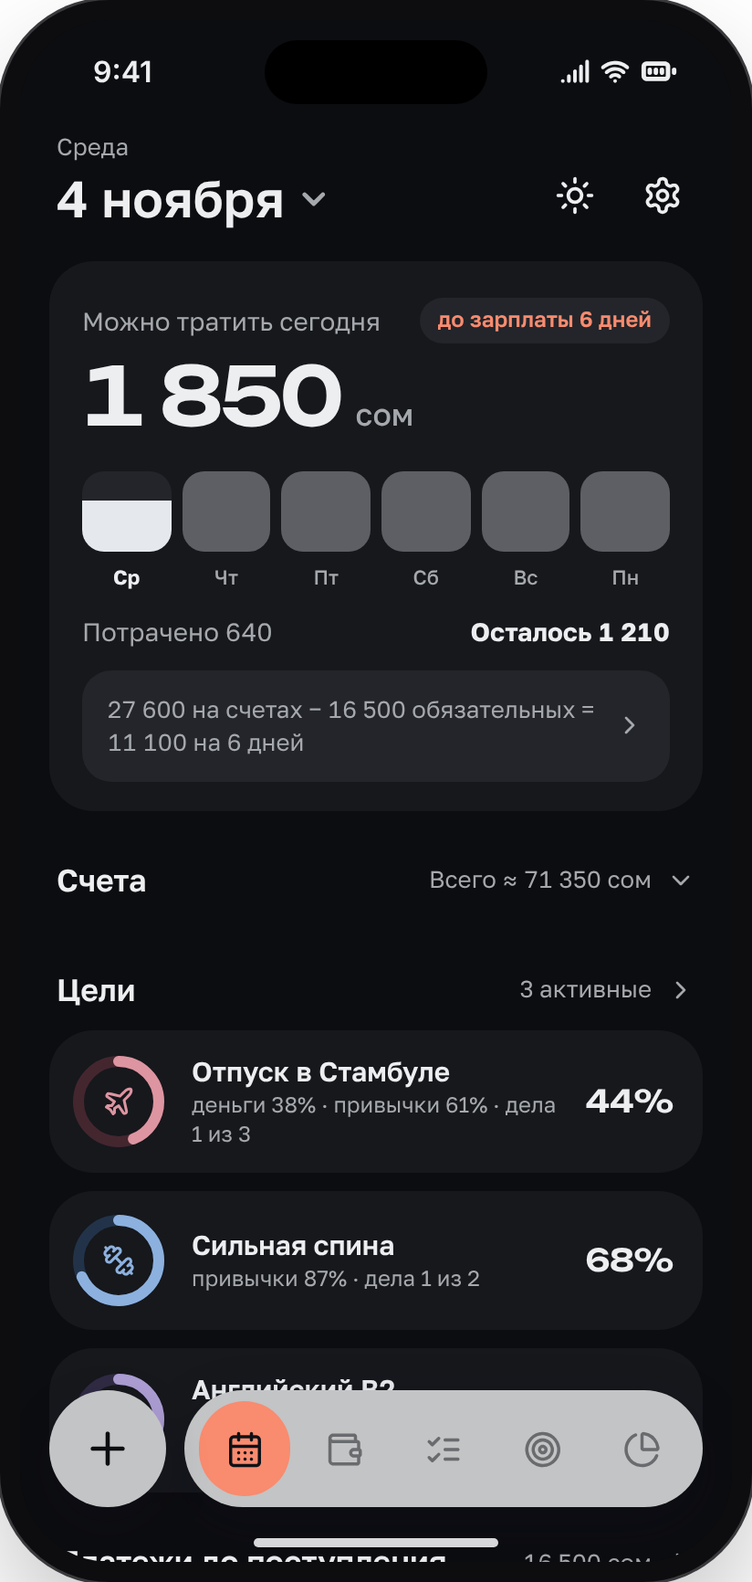
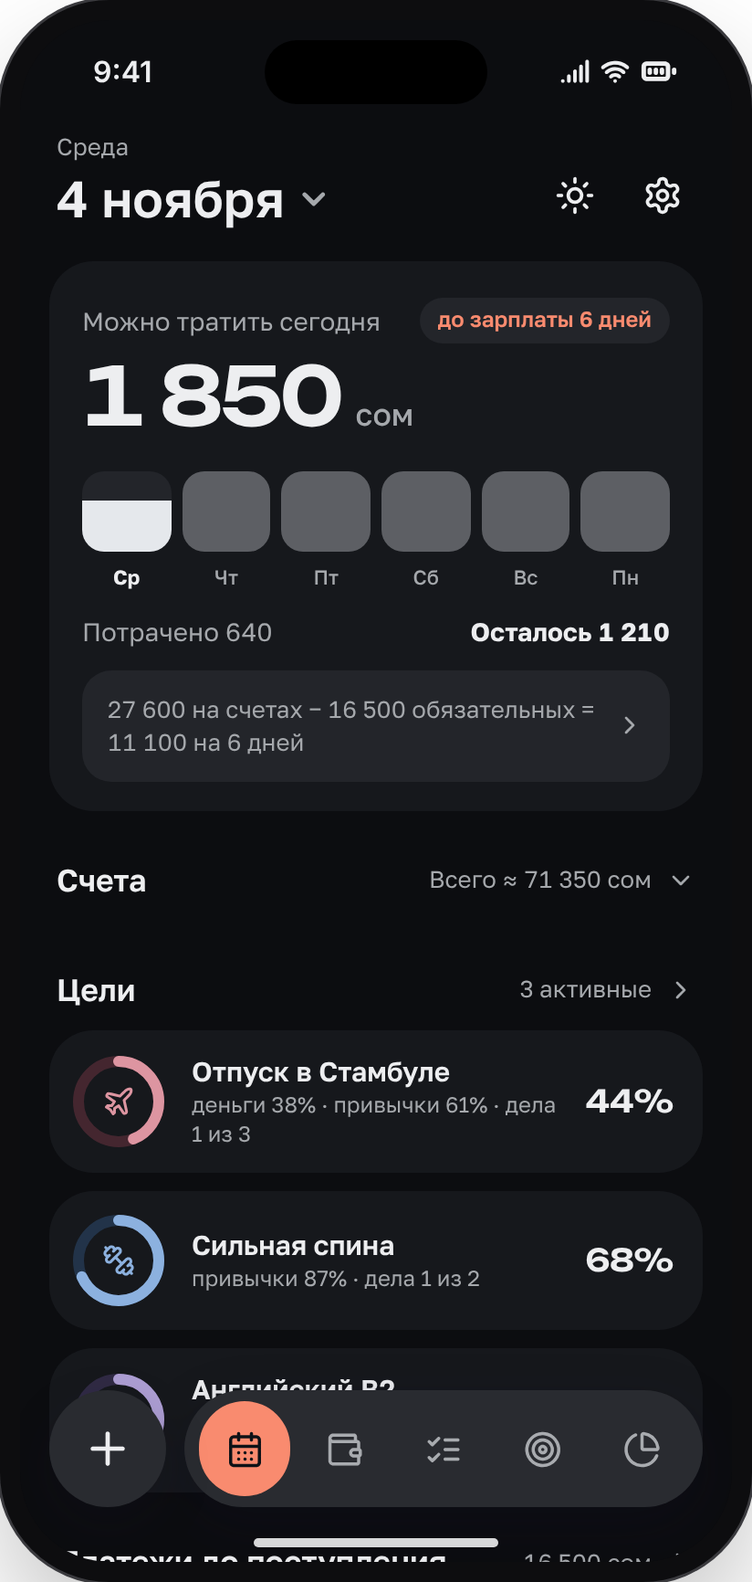
SPEC 9a: в тёмном режиме меню и кнопка «+» тёмные; токены и эталоны обновлены
Claude-Session: https://claude.ai/code/session_01MMFcYPgiDoKkXHqffXhYq6

Changed region(s): [[0.0607, 0.873, 0.9405, 0.9665]]

diff --git a/docs/design/appearance/MyFinanceApp2-appearance.dc.html b/docs/design/appearance/MyFinanceApp2-appearance.dc.html
@@ -1362,12 +1362,12 @@ class Component extends DCLogic {
     const centerV = this.props.center || 'notch-pill';
     const navC = [['today', 'Сегодня', 'calendar-days'], ['money', 'Деньги', 'wallet'], [null, '', 'plus'], ['tasks', 'Дела', 'list-checks'], ['reports', 'Отчёты', 'chart-pie']].map(([id, label, icon]) => {
       const on = id && (s.tab === id || (id === 'tasks' && s.tab === 'goals'));
-      return { label, icon: 'icon-' + icon, vis: id ? 'visible' : 'hidden', led: on ? 'oklch(0.7 0.2 40)' : (dark ? '#26282c' : '#c9ccd0'), ledGlow: on ? '0 0 6px oklch(0.72 0.2 40)' : 'inset 0 1px 1px rgba(0,0,0,.3)', c: on ? t.navPillInk : t.navInk, pill: on ? t.navPill : 'transparent', cBar: on ? t.accent : t.navInk, cl: on ? t.navPillInk : (dark ? mix(t.navBg, 70, 'white') : t.muted), go: () => { if (id) this.setState({ tab: id, goal: null, rec: false, day: null }); } };
+      return { label, icon: 'icon-' + icon, vis: id ? 'visible' : 'hidden', led: on ? 'oklch(0.7 0.2 40)' : (dark ? '#26282c' : '#c9ccd0'), ledGlow: on ? '0 0 6px oklch(0.72 0.2 40)' : 'inset 0 1px 1px rgba(0,0,0,.3)', c: on ? t.navPillInk : t.navInk, pill: on ? t.navPill : 'transparent', cBar: on ? t.accent : t.navInk, cl: on ? t.navPillInk : (dark ? t.navInk : t.muted), go: () => { if (id) this.setState({ tab: id, goal: null, rec: false, day: null }); } };
     });
     const nav = [['today', 'Сегодня', 'calendar-days'], ['money', 'Деньги', 'wallet'], ['tasks', 'Дела', 'list-checks'], ['goals', 'Цели', 'target'], ['reports', 'Отчёты', 'chart-pie']].map(([id, label, icon]) => {
       const on = s.tab === id;
       return {
-        label, icon: 'icon-' + icon, c: on ? t.navPillInk : t.navInk, cs: on ? t.navPillInk : (this.props.lightNav ? (dark ? mix(t.navBg, 70, 'white') : t.muted) : t.navInk), pill: on ? t.navPill : 'transparent',
+        label, icon: 'icon-' + icon, c: on ? t.navPillInk : t.navInk, cs: on ? t.navPillInk : (this.props.lightNav && !dark ? t.muted : t.navInk), pill: on ? t.navPill : 'transparent',
         cBar: on ? t.accent : t.muted, pillBar: on ? mix(t.accent, dark ? 22 : 12) : 'transparent',
         go: () => this.setState({ tab: id, goal: null, rec: false, day: null }),
       };
@@ -1381,9 +1381,9 @@ class Component extends DCLogic {
       hvWeek: habV === 'week', hvCompact: habV === 'compact', hvTiles: habV === 'tiles',
       navFloat: navV !== 'bar', navSide: navV !== 'bar' && !fabCenter, cBar: fabCenter && centerV === 'notch-bar', cPill: fabCenter && centerV === 'notch-pill', cSplit: fabCenter && centerV === 'split',
       side: this.props.lightNav
-        ? { bg: dark ? mix(t.navBg, 28, 'white') : mix(t.navBg, 9, 'white'), fabBg: dark ? mix(t.navBg, 28, 'white') : mix(t.navBg, 9, 'white'), fabInk: dark ? t.bg : t.ink, fabSh: `0 10px 26px rgba(20,15,40,.18)${dark ? '' : `, inset 0 0 0 1px ${t.line}`}` }
+        ? { bg: dark ? t.navBg : mix(t.navBg, 9, 'white'), fabBg: dark ? t.navBg : mix(t.navBg, 9, 'white'), fabInk: t.ink, fabSh: `0 10px 26px rgba(20,15,40,.18)${dark ? '' : `, inset 0 0 0 1px ${t.line}`}` }
         : { bg: t.navBg, fabBg: t.primary, fabInk: t.onPrimary, fabSh: '0 10px 26px rgba(20,15,40,.25)' },
-      fabLight: { bg: dark ? mix(t.navBg, 28, 'white') : mix(t.navBg, 9, 'white'), ink: dark ? t.bg : t.ink, ring: dark ? 'none' : `inset 0 0 0 1px ${t.line}` }, cOp: fabCenter && centerV === 'op1',
+      fabLight: { bg: dark ? t.navBg : mix(t.navBg, 9, 'white'), ink: t.ink, ring: dark ? 'none' : `inset 0 0 0 1px ${t.line}` }, cOp: fabCenter && centerV === 'op1',
       // Клавиши как у синтезатора: квадратный колпачок с круглой выпуклой шапкой; «+» — та же клавиша с оранжевой шапкой «записи».
       navK: navC.map((n, i) => {
         const rec = i === 2;
@@ -1415,7 +1415,7 @@ class Component extends DCLogic {
       }, navC, navL: navC.slice(0, 2), navR: navC.slice(3), navLabels: navV === 'float-labels', navBar: navV === 'bar', nav,
       themeIcon: dark ? 'icon-sun' : 'icon-moon', toggleTheme: () => this.setState({ mode: dark ? 'light' : 'dark' }),
       openLook: () => this.setState({ sheet: 'look' }), sheetLook: s.sheet === 'look',
-      lookThemes: LOOK_THEMES.map(([id, name]) => { const tt = tokens(PAL[id], dark); const on = id === palKey; return { name, on, bg: tt.bg, surface: tt.surface, ink: tt.ink, primary: tt.primary, accent: tt.accent, nav: this.props.lightNav || fabCenter ? (dark ? mix(tt.navBg, 28, 'white') : mix(tt.navBg, 9, 'white')) : tt.navBg, line: tt.line, ring: on ? `0 0 0 2px ${t.accent}` : `0 0 0 1px ${t.line}`, pick: () => this.setState({ pal: id }) }; }),
+      lookThemes: LOOK_THEMES.map(([id, name]) => { const tt = tokens(PAL[id], dark); const on = id === palKey; return { name, on, bg: tt.bg, surface: tt.surface, ink: tt.ink, primary: tt.primary, accent: tt.accent, nav: (this.props.lightNav || fabCenter) && !dark ? mix(tt.navBg, 9, 'white') : tt.navBg, line: tt.line, ring: on ? `0 0 0 2px ${t.accent}` : `0 0 0 1px ${t.line}`, pick: () => this.setState({ pal: id }) }; }),
       lookModes: [['light', 'Светлая'], ['dark', 'Тёмная'], ['system', 'Как в системе']].map(([id, label]) => ({ label, bg: id === s.mode ? t.surface : 'transparent', fg: id === s.mode ? t.ink : t.muted, sh: id === s.mode ? '0 1px 2px rgba(0,0,0,.08)' : 'none', pick: () => this.setState({ mode: id }) })),
       lookFabs: [['left', 'Слева', '28px', '4px', '4px', '0', '4px'], ['center', 'По центру', '4px', '4px', '50%', '-8px', '4px'], ['right', 'Справа', '4px', '28px', 'calc(100% - 20px)', '0', '4px']].map(([id, label, navL, navR, dotL, dotM, dotB]) => ({ label, navL, navR, dotL, dotM, dotB, ring: id === fabV ? `0 0 0 2px ${t.accent}` : `0 0 0 1px ${t.line}`, pick: () => this.setState({ fab: id }) })),
       fabHint: fabV === 'center' ? 'По центру «+» встаёт между вкладками, «Цели» переезжают в «Дела» третьей вкладкой' : fabV === 'left' ? 'Слева — под большой палец левой руки' : 'Справа — под большой палец правой руки',

diff --git a/docs/design/appearance/themes.css b/docs/design/appearance/themes.css
@@ -1,4 +1,4 @@
-/* Этап 26: три темы 2e и светлое меню. Подключить в src/tokens.css после блоков :root и [data-theme="dark"].
+/* Этап 26: три темы 2e; меню в цвет кнопки «+» — светлое в светлом режиме, тёмное в тёмном. Подключить в src/tokens.css после блоков :root и [data-theme="dark"].
    data-palette на <html>: graphite (по умолчанию, значения уже в tokens.css) | navy | espresso.
    oklch — основное значение, hex — запасной. Значения 1:1 из tokens(PAL[…]) в docs/design/appearance/MyFinanceApp2-appearance.dc.html. */
 
@@ -15,10 +15,10 @@
 
 /* Графит — тёмная */
 [data-theme="dark"], :root[data-palette="graphite"][data-theme="dark"] {
-  /* светлое меню: 28% тёмного цвета меню 2e + белый */
-  --nav-bg: #c3c4c5;          --nav-bg: color-mix(in srgb, oklch(0.29 0.0096 260) 28%, white);
-  --nav-ink: #696b6e;         --nav-ink: color-mix(in srgb, oklch(0.29 0.0096 260) 70%, white);
-  --nav-fab-ink: var(--bg);
+  /* тёмное меню: как в 2e, кнопка «+» того же цвета */
+  --nav-bg: #292b30;          --nav-bg: oklch(0.29 0.0096 260);
+  --nav-ink: #a8abaf;         --nav-ink: oklch(0.74 0.0064 260);
+  --nav-fab-ink: var(--ink);
   --nav-fab-ring: none;
   --nav-fab-bg: var(--nav-bg);
   --theme-color: #0c0d10;
@@ -60,10 +60,10 @@
   --toast-action: #a73923;    --toast-action: oklch(0.5 0.15 33);
   --hero-fill-soft: oklch(0.87 0.045 255 / 0.3);
   --nav-pill-ink: #071220;    --nav-pill-ink: oklch(0.18 0.033 255);
-  /* светлое меню: 28% тёмного цвета меню 2e + белый */
-  --nav-bg: #c1c4c7;          --nav-bg: color-mix(in srgb, oklch(0.29 0.0264 255) 28%, white);
-  --nav-ink: #656b74;         --nav-ink: color-mix(in srgb, oklch(0.29 0.0264 255) 70%, white);
-  --nav-fab-ink: var(--bg);
+  /* тёмное меню: как в 2e, кнопка «+» того же цвета */
+  --nav-bg: #222c38;          --nav-bg: oklch(0.29 0.0264 255);
+  --nav-ink: #a4acb6;         --nav-ink: oklch(0.74 0.0176 255);
+  --nav-fab-ink: var(--ink);
   --nav-fab-ring: none;
   --nav-fab-bg: var(--nav-bg);
   --theme-color: #080e15;
@@ -105,10 +105,10 @@
   --toast-action: #954f00;    --toast-action: oklch(0.5 0.15 72);
   --hero-fill-soft: oklch(0.9 0.03 70 / 0.3);
   --nav-pill-ink: #1b0e03;    --nav-pill-ink: oklch(0.18 0.033 65);
-  /* светлое меню: 28% тёмного цвета меню 2e + белый */
-  --nav-bg: #c6c3c0;          --nav-bg: color-mix(in srgb, oklch(0.29 0.0264 65) 28%, white);
-  --nav-ink: #716961;         --nav-ink: color-mix(in srgb, oklch(0.29 0.0264 65) 70%, white);
-  --nav-fab-ink: var(--bg);
+  /* тёмное меню: как в 2e, кнопка «+» того же цвета */
+  --nav-bg: #35291d;          --nav-bg: oklch(0.29 0.0264 65);
+  --nav-ink: #b3a9a0;         --nav-ink: oklch(0.74 0.0176 65);
+  --nav-fab-ink: var(--ink);
   --nav-fab-ring: none;
   --nav-fab-bg: var(--nav-bg);
   --theme-color: #130c06;

diff --git a/docs/SPEC.md b/docs/SPEC.md
@@ -279,7 +279,7 @@ interface WorkoutSet {                // подход в зале
 
 ## 5. Экраны и UX
 
-Плавающее меню (дизайн 2e): пилюля 64 px на 16 px от краёв и 30 px от низа (на iPhone с жестовой полосой — safe-area + 16), фон `--nav-bg`, 5 вкладок без подписей: Сегодня `calendar-days`, Деньги `wallet`, Дела `list-checks`, Цели `target`, Отчёты `chart-pie`; активная — коралловая пилюля 52 px. Слева FAB «+» 64 px (`--primary`) — под большой палец левой руки (выбор пользователя; в макете справа), открывает быстрый ввод (расход по умолчанию). Переход по вкладке сбрасывает открытые вложенные экраны. Настройки и переключатель темы (луна / солнце) — значки справа в шапке «Сегодня». Тост — над меню, фон `--ink`, с галочкой; «Отменить» цветом `--toast-action`; новый тост заменяет старый. Этап 26: меню светлое во всех темах, место «+» (слева / по центру / справа) и вид меню при «+» по центру — раздел 9a.
+Плавающее меню (дизайн 2e): пилюля 64 px на 16 px от краёв и 30 px от низа (на iPhone с жестовой полосой — safe-area + 16), фон `--nav-bg`, 5 вкладок без подписей: Сегодня `calendar-days`, Деньги `wallet`, Дела `list-checks`, Цели `target`, Отчёты `chart-pie`; активная — коралловая пилюля 52 px. Слева FAB «+» 64 px (`--primary`) — под большой палец левой руки (выбор пользователя; в макете справа), открывает быстрый ввод (расход по умолчанию). Переход по вкладке сбрасывает открытые вложенные экраны. Настройки и переключатель темы (луна / солнце) — значки справа в шапке «Сегодня». Тост — над меню, фон `--ink`, с галочкой; «Отменить» цветом `--toast-action`; новый тост заменяет старый. Этап 26: меню в цвет кнопки «+» (светлое в светлом режиме, тёмное в тёмном), место «+» (слева / по центру / справа) и вид меню при «+» по центру — раздел 9a.
 
 Между вкладками Сегодня → Деньги → Дела → Цели → Отчёты можно листать горизонтальным свайпом по любой части страницы, кроме строк дел (у них свой свайп в обе стороны), полей ввода и ручек перетаскивания; по строке истории свайп влево — «Удалить», вправо — предыдущая вкладка. Жест считается горизонтальным, если не круче 45° (свайп по дуге большим пальцем тоже засчитывается); переключает смещение дальше 64 px или рывок дальше 30 px быстрее 0,4 px/мс по последним 100 мс — палец мог замереть и потом дёрнуть. Те же правила у свайпа «назад» и закрытия окон. Новая вкладка въезжает со стороны жеста; на краях — сопротивление.
 
@@ -496,7 +496,7 @@ interface WorkoutSet {                // подход в зале
 - Эспрессо — тёплые нейтрали с оттенком 65 (песочный фон), `--primary` кофейный oklch(0.31 0.035 50) → в тёмной oklch(0.9 0.03 70), `--accent` шафран oklch(0.64 0.15 62). Акцентный текст на `--sunk` в светлой теме ~3:1 — акцентом здесь только значки, пилюли и крупный текст.
 - Inline-скрипт в `index.html` ставит и `data-palette` до загрузки CSS; `theme-color` по таблице (светлая / тёмная): графит #f4f6f8 / #0c0d10, синий #f2f6fc / #080e15, эспрессо #faf5f0 / #130c06 — единственные hex вне токенов, как и раньше.
 
-**Меню — светлое во всех темах.** `--nav-bg` = 9% тёмного цвета меню 2e + белый (в тёмной теме 28% — светло-серое, не белое), значки `--nav-ink` (`--muted`; в тёмной — 70% цвета меню + белый), активная вкладка — пилюля `--nav-pill` (акцент темы) со значком `--nav-pill-ink`. Кнопка «+» — `--nav-fab-bg` (= `--nav-bg`), плюс `--nav-fab-ink`, в светлой теме обводка `--nav-fab-ring` (1 px `--line`), плоская: без бликов и внутренних теней.
+**Меню — в цвет кнопки «+».** Светлый режим: `--nav-bg` = 9% тёмного цвета меню 2e + белый (светло-серое), значки `--nav-ink` = `--muted`, у кнопки обводка `--nav-fab-ring` (1 px `--line`). Тёмный режим: меню тёмное, как в 2e (`--nav-bg` oklch 0.29 с оттенком темы, значки `--nav-ink` oklch 0.74), без обводки. Активная вкладка — пилюля `--nav-pill` (акцент темы) со значком `--nav-pill-ink`. Кнопка «+» всегда того же цвета, что меню: `--nav-fab-bg` (= `--nav-bg`), плюс `--nav-fab-ink` (= `--ink`); плоская, без бликов и внутренних теней.
 - **Слева / справа** — как сейчас: FAB 64 px рядом с пилюлей (зазор 10), справа — зеркально; 5 вкладок; тень `--shadow-nav` у пилюли и `--shadow-fab` у кнопки.
 - **По центру** — 4 вкладки: Сегодня, Деньги, «+», Дела, Отчёты (5 равных колонок, средняя — место кнопки). «Цели» — третья вкладка «Дел»: сегмент «Задачи / Привычки / Цели»; пока открыты цели, в меню активна «Дела»; переходы к целям (блок «Цели» на «Сегодня», раздел 7b) ведут в «Дела → Цели»; свайп между вкладками идёт по видимым вкладкам. Пилюля — SVG-силуэт высотой 64 и шириной `W` меню: кнопка 60 px, её центр на 10 px ниже верхнего края пилюли; вокруг — вырез-окружность r 36 (зазор 6), плечи выреза — дуги r 26 (как у пилюли активной вкладки), касательные к верхнему краю и к окружности. Путь, `cx = W / 2`: `M32 0 H(cx−59.90) A26 26 0 0 1 (cx−34.78) 19.29 A36 36 0 0 0 (cx+34.78) 19.29 A26 26 0 0 1 (cx+59.90) 0 H(W−32) A32 32 0 0 1 (W−32) 64 H32 A32 32 0 0 1 32 0 Z`; `W` — из `ResizeObserver`, `viewBox="0 0 W 64"`, без растяжения (`preserveAspectRatio="none"` не использовать). Тень силуэта — `filter: drop-shadow(0 10px 18px rgba(20,15,40,.2))`. Тост при «+» по центру — на 124 px от низа (над кнопкой).
 
@@ -531,7 +531,7 @@ interface WorkoutSet {                // подход в зале
 | 22 | Отчёт по деньгам v2: «Итог месяца», «Темп месяца», «По счетам» с движением денег, выгода в «Где сократить» (раздел 6, макет `docs/design/reports/`). Расчёты — чистые функции `monthSummary`, `paceSeries`, `accountFlows` в `src/domain/reports.ts` | На seed-данных для каждого счёта остаток на начало + пришло − ушло = остаток на конец до тыйына; перевод 5 000 MBank → Наличные: у MBank «ушло» +5 000, у Наличных «пришло» +5 000, расходы и доходы месяца не изменились; последняя точка «Темпа» равна расходам месяца, «Осталось» = доходы − расходы; при < 2 месяцах данных нет пунктира и пилюли; «Уменьшить движение» — без анимации |
 | 24 | Карточка «Остаток» на «Сегодня» вместо «Можно тратить сегодня» (раздел 4.10): все счета ≈ в сомах, платежи до поступления и дальше на 30 дней, долги, «Свободно» и «хватит на N дней», лимит на день одной строкой. Расчёт — `moneyOverview` в `src/domain/overview.ts` | На контрольном примере 4.4 после трат 640: «26 960 сом», «USDT: курса нет», «Платежи до зарплаты −16 500», «Свободно 10 460 сом · хватит на 490 дней», «Можно тратить сегодня 1 850 · потрачено 640 · осталось 1 210»; дал в долг 3 000 → остаток 23 960, «Мне должны +3 000», свободно 7 460; строки ведут в «Регулярные», «Долги» и «Из чего лимит» |
 | 25 | По замечаниям с телефона: экран счёта по тапу на счёт на «Сегодня» (5.1 п. 4b), компактные сворачиваемые «Цели» (5.1 п. 4a), «Остаток на счетах» над доходами и расходами в «Деньгах» (5.3) | После траты 300 в «Кафе» тап по «MBank» на «Сегодня» открывает экран «MBank»: «остаток 19 700 сом», «Ушло −300», строка «Расходы −300» показывает «Кафе −300», «Вся история» ведёт в «Деньги» с чипом MBank; в «Деньгах» тап по счёту фильтрует историю; «Итоги месяца» начинаются с «Остаток на счетах 20 000 сом»; «Свернуть цели» прячет список, после перезапуска состояние сохранено |
-| 26 | Оформление (раздел 9a): темы «Графит / Синий / Эспрессо», режим, место «+» (слева / по центру / справа), светлое меню; при «+» по центру — меню с вырезом и «Цели» в «Делах». Макет `docs/design/appearance/` | «Синий» и «Эспрессо» включаются сразу на всех экранах, после перезапуска тема и режим те же и без мигания при старте; «Как в системе» следует iOS; «+» справа — 5 вкладок, кнопка справа; «+» по центру — 4 вкладки, «Дела» с тремя вкладками, плитка «Цели» на «Сегодня» ведёт в «Дела → Цели», вырез ровный на ширине 375, 390 и 430 px; бэкап без `palette` и `fabPosition` импортируется; в компонентах нет hex |
+| 26 | Оформление (раздел 9a): темы «Графит / Синий / Эспрессо», режим, место «+» (слева / по центру / справа), меню в цвет кнопки (светлое / тёмное по режиму); при «+» по центру — меню с вырезом и «Цели» в «Делах». Макет `docs/design/appearance/` | «Синий» и «Эспрессо» включаются сразу на всех экранах, после перезапуска тема и режим те же и без мигания при старте; «Как в системе» следует iOS; «+» справа — 5 вкладок, кнопка справа; «+» по центру — 4 вкладки, «Дела» с тремя вкладками, плитка «Цели» на «Сегодня» ведёт в «Дела → Цели», вырез ровный на ширине 375, 390 и 430 px; бэкап без `palette` и `fabPosition` импортируется; в компонентах нет hex |
 
 Правила для Claude Code — в `CLAUDE.md` в корне репозитория.
 
